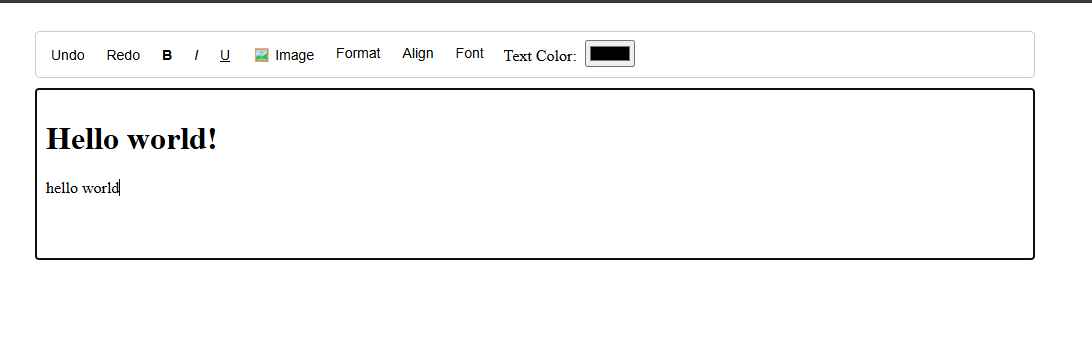
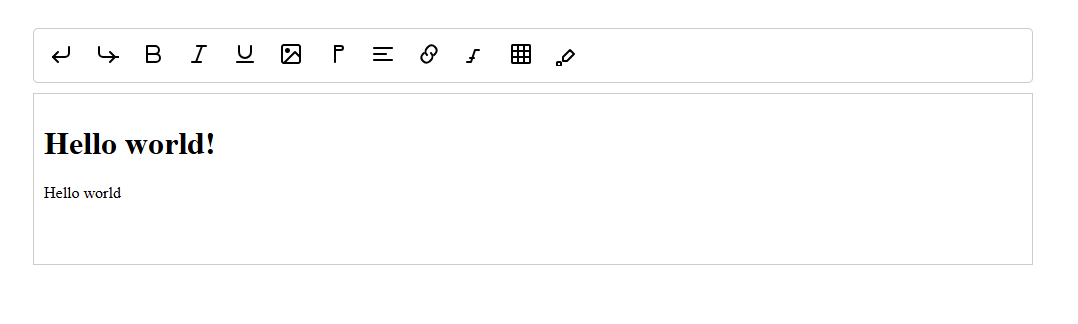
improved UI

diff --git a/src/lib/plugins/formatting.ts b/src/lib/plugins/formatting.ts
@@ -99,32 +99,89 @@ export const formattingPlugin: EditorPlugin = {
 
     // ------------------- Setup UI buttons -------------------
     editor.ui.addButton("bold", {
-      text: "<b>B</b>",
+      text: `
+      <svg xmlns="http://www.w3.org/2000/svg"
+     width="24" height="24" viewBox="0 0 24 24"
+     fill="none" stroke="currentColor" stroke-width="2"
+     stroke-linecap="round" stroke-linejoin="round"
+     role="img" aria-label="Bold">
+  <path d="M6 4h8a4 4 0 0 1 0 8H6z" />
+  <path d="M6 12h9a4 4 0 0 1 0 8H6z" />
+</svg>
+
+      `,
       tooltip: "Bold",
       onAction: () => editor.execCommand("bold"),
     });
 
     editor.ui.addButton("italic", {
-      text: "<i>I</i>",
+      text: `
+      <svg xmlns="http://www.w3.org/2000/svg"
+     width="24" height="24" viewBox="0 0 24 24"
+     fill="none" stroke="currentColor" stroke-width="2"
+     stroke-linecap="round" stroke-linejoin="round"
+     role="img" aria-label="Italic">
+  <line x1="19" y1="4" x2="10" y2="4" />
+  <line x1="14" y1="20" x2="5" y2="20" />
+  <line x1="15" y1="4" x2="9" y2="20" />
+</svg>
+
+      `,
       tooltip: "Italic",
       onAction: () => editor.execCommand("italic"),
     });
 
     editor.ui.addButton("underline", {
-      text: "<u>U</u>",
+      text: `
+      <svg xmlns="http://www.w3.org/2000/svg"
+     width="24" height="24" viewBox="0 0 24 24"
+     fill="none" stroke="currentColor" stroke-width="2"
+     stroke-linecap="round" stroke-linejoin="round"
+     role="img" aria-label="Underline">
+  <path d="M6 4v6a6 6 0 0 0 12 0V4" />
+  <line x1="4" y1="20" x2="20" y2="20" />
+</svg>
+
+      `,
       tooltip: "Underline",
       onAction: () => editor.execCommand("underline"),
     });
 
     editor.ui.addButton("image", {
-      text: "🖼 Image",
+      text: `
+      <!-- Image / Picture icon -->
+<svg xmlns="http://www.w3.org/2000/svg"
+     width="24" height="24" viewBox="0 0 24 24"
+     fill="none" stroke="currentColor" stroke-width="2"
+     stroke-linecap="round" stroke-linejoin="round"
+     role="img" aria-label="Image">
+  <!-- Frame -->
+  <rect x="3" y="3" width="18" height="18" rx="2" ry="2" />
+  <!-- Sun / circle -->
+  <circle cx="8.5" cy="8.5" r="1.5" />
+  <!-- Mountains / landscape -->
+  <path d="M21 15l-5-5L5 21" />
+</svg>
+
+      `,
       tooltip: "Insert Image",
       onAction: () => editor.execCommand("insertImage"),
     });
 
     // ------------------- Formatting dropdown -------------------
     editor.ui.addDropdown("format", {
-      text: "Format",
+      text: `
+      <svg xmlns="http://www.w3.org/2000/svg"
+     width="24" height="24" viewBox="0 0 24 24"
+     fill="none" stroke="currentColor" stroke-width="2"
+     stroke-linecap="round" stroke-linejoin="round"
+     role="img" aria-label="Format">
+  <!-- Paragraph symbol P -->
+  <path d="M10 4v16" />
+  <path d="M10 4h6a2 2 0 0 1 2 2v0a2 2 0 0 1-2 2h-6" />
+</svg>
+
+      `,
       tooltip: "Text format",
       options: ["h1", "h2", "h3", "h4", "h5", "h6", "p"].map((tag) => ({
         label: tag.toUpperCase(),
@@ -135,14 +192,76 @@ export const formattingPlugin: EditorPlugin = {
 
     // ------------------- Alignment dropdown -------------------
     const alignOptions = [
-      { label: "Left", value: "left" },
-      { label: "Center", value: "center" },
-      { label: "Right", value: "right" },
-      { label: "Justify", value: "justify" },
+      {
+        label: `
+<svg xmlns="http://www.w3.org/2000/svg"
+     width="24" height="24" viewBox="0 0 24 24"
+     fill="none" stroke="currentColor" stroke-width="2"
+     stroke-linecap="round" stroke-linejoin="round"
+     role="img" aria-label="Align Left">
+  <line x1="3" y1="6" x2="21" y2="6" />
+  <line x1="3" y1="12" x2="15" y2="12" />
+  <line x1="3" y1="18" x2="21" y2="18" />
+</svg>
+        `,
+        value: "left",
+      },
+      {
+        label: `
+<svg xmlns="http://www.w3.org/2000/svg"
+     width="24" height="24" viewBox="0 0 24 24"
+     fill="none" stroke="currentColor" stroke-width="2"
+     stroke-linecap="round" stroke-linejoin="round"
+     role="img" aria-label="Align Center">
+  <line x1="4" y1="6" x2="20" y2="6" />
+  <line x1="8" y1="12" x2="16" y2="12" />
+  <line x1="4" y1="18" x2="20" y2="18" />
+</svg>
+        `,
+        value: "center",
+      },
+      {
+        label: `
+<svg xmlns="http://www.w3.org/2000/svg"
+     width="24" height="24" viewBox="0 0 24 24"
+     fill="none" stroke="currentColor" stroke-width="2"
+     stroke-linecap="round" stroke-linejoin="round"
+     role="img" aria-label="Align Right">
+  <line x1="3" y1="6" x2="21" y2="6" />
+  <line x1="9" y1="12" x2="21" y2="12" />
+  <line x1="3" y1="18" x2="21" y2="18" />
+</svg>
+        `,
+        value: "right",
+      },
+      {
+        label: `
+        <svg xmlns="http://www.w3.org/2000/svg"
+     width="24" height="24" viewBox="0 0 24 24"
+     fill="none" stroke="currentColor" stroke-width="2"
+     stroke-linecap="round" stroke-linejoin="round"
+     role="img" aria-label="Align Justify">
+  <line x1="3" y1="6" x2="21" y2="6" />
+  <line x1="3" y1="12" x2="21" y2="12" />
+  <line x1="3" y1="18" x2="21" y2="18" />
+</svg>
+        `,
+        value: "justify",
+      },
     ];
 
     editor.ui.addDropdown("align", {
-      text: "Align",
+      text: `
+<svg xmlns="http://www.w3.org/2000/svg"
+     width="24" height="24" viewBox="0 0 24 24"
+     fill="none" stroke="currentColor" stroke-width="2"
+     stroke-linecap="round" stroke-linejoin="round"
+     role="img" aria-label="Align Left">
+  <line x1="3" y1="6" x2="21" y2="6" />
+  <line x1="3" y1="12" x2="15" y2="12" />
+  <line x1="3" y1="18" x2="21" y2="18" />
+</svg>
+      `,
       tooltip: "Text alignment",
       options: alignOptions.map((opt) => ({
         label: opt.label,

diff --git a/src/lib/editor/editor.ts b/src/lib/editor/editor.ts
@@ -38,12 +38,10 @@ export class Editor {
 
   /**
    * Constructor
-   * @param toolbarId - The id of the toolbar
-   * @param editorId - The id of the editor
+   * @param toolbar - The element of the toolbar
+   * @param editor - The element of the editor
    */
-  constructor(toolbarId: string, editorId: string) {
-    const toolbar = document.querySelector(toolbarId) as HTMLElement;
-    const editor = document.querySelector(editorId) as HTMLElement;
+  constructor(toolbar: HTMLElement, editor: HTMLElement) {
     if (!toolbar || !editor) {
       throw new Error("Toolbar or Editor not found");
     }
@@ -51,6 +49,8 @@ export class Editor {
     this.editor = editor;
 
     // Set attributes
+    this.toolbar.style.position = "sticky";
+    this.toolbar.style.top = "0";
     this.toolbar.setAttribute("role", "toolbar");
     this.editor.setAttribute("role", "textbox");
     this.editor.setAttribute("contenteditable", "true");
@@ -64,11 +64,9 @@ export class Editor {
     this.inputListener = debouncedSave;
 
     this.editor.addEventListener("input", debouncedSave);
-
     this.editor.addEventListener("mouseup", () => {
       this.emitter.emit("selectionchange", { range: this.getSelectionRange() });
     });
-
     this.editor.addEventListener("keyup", () => {
       this.emitter.emit("selectionchange", { range: this.getSelectionRange() });
     });

diff --git a/src/lib/plugins/colorPicker.ts b/src/lib/plugins/colorPicker.ts
@@ -7,14 +7,36 @@ import { Editor } from "../editor/editor";
 export const colorPickerPlugin: EditorPlugin = {
   name: "colorPicker",
   init(editor: Editor) {
+    editor.ui.addButton("colorPicker", {
+      text: `<svg xmlns="http://www.w3.org/2000/svg"
+     width="24" height="24" viewBox="0 0 24 24"
+     fill="none" stroke="currentColor" stroke-width="2"
+     stroke-linecap="round" stroke-linejoin="round"
+     role="img" aria-label="Color">
+  <!-- Pencil tip / color drop -->
+  <path d="M12 19l7-7-4-4-7 7v4h4z" />
+  <!-- Optional color square / palette -->
+  <rect x="2" y="20" width="4" height="4" rx="1" ry="1" />
+</svg>
+`,
+      tooltip: "Text Color",
+      onAction: () => {
+        const input = editor.toolbar.querySelector("#soditor-color-picker-label") as HTMLInputElement;
+        if (input) {
+          input.click();
+        }
+      },
+    });
+
     const label = document.createElement("label");
+    label.id = "soditor-color-picker-label";
     label.style.marginLeft = "8px";
-    label.innerText = "Text Color: ";
 
     const input = document.createElement("input");
     input.type = "color";
     input.value = "#000000"; // default black
     input.style.marginLeft = "4px";
+    input.style.visibility = "hidden";
 
     input.oninput = () => {
       const color = input.value;

diff --git a/src/lib/plugins/undoRedo.ts b/src/lib/plugins/undoRedo.ts
@@ -5,14 +5,41 @@ export const undoRedoPlugin: EditorPlugin = {
   name: "undoRedo",
   init(editor: Editor) {
     editor.ui.addButton("undo", {
-      text: "Undo",
+      text: `
+      <!-- Undo / corner-left (outline) -->
+<svg xmlns="http://www.w3.org/2000/svg"
+     width="24" height="24" viewBox="0 0 24 24"
+     fill="none" stroke="currentColor" stroke-width="2"
+     stroke-linecap="round" stroke-linejoin="round"
+     role="img" aria-label="Undo">
+  <!-- arrow head -->
+  <path d="M9 10 L4 15 L9 20" />
+  <!-- curved path (undo tail) -->
+  <path d="M20 5v6a4 4 0 0 1-4 4H4" />
+</svg>
+
+      `,
       tooltip: "Undo",
       onAction: () => {
         editor.undo();
       },
     });
+
     editor.ui.addButton("redo", {
-      text: "Redo",
+      text: `
+      <!-- Redo / corner-right (outline) -->
+<svg xmlns="http://www.w3.org/2000/svg"
+     width="24" height="24" viewBox="0 0 24 24"
+     fill="none" stroke="currentColor" stroke-width="2"
+     stroke-linecap="round" stroke-linejoin="round"
+     role="img" aria-label="Redo">
+  <!-- arrow head -->
+  <path d="M15 10 L20 15 L15 20" />
+  <!-- curved path (redo tail) -->
+  <path d="M4 5v6a4 4 0 0 0 4 4h16" />
+</svg>
+
+      `,
       tooltip: "Redo",
       onAction: () => {
         editor.redo();

diff --git a/src/lib/plugins/table.ts b/src/lib/plugins/table.ts
@@ -6,7 +6,23 @@ export const tablePlugin: EditorPlugin = {
   init(editor: Editor) {
     // --- Create Table Button ---
     editor.ui.addButton("table", {
-      text: "📊 Table",
+      text: `
+      <svg xmlns="http://www.w3.org/2000/svg"
+     width="24" height="24" viewBox="0 0 24 24"
+     fill="none" stroke="currentColor" stroke-width="2"
+     stroke-linecap="round" stroke-linejoin="round"
+     role="img" aria-label="Table">
+  <!-- Outer table frame -->
+  <rect x="3" y="3" width="18" height="18" rx="1" ry="1" />
+  <!-- Horizontal rows -->
+  <line x1="3" y1="9" x2="21" y2="9" />
+  <line x1="3" y1="15" x2="21" y2="15" />
+  <!-- Vertical columns -->
+  <line x1="9" y1="3" x2="9" y2="21" />
+  <line x1="15" y1="3" x2="15" y2="21" />
+</svg>
+
+      `,
       tooltip: "Insert Table",
       onAction: async () => {
         const rowsValue = await editor.ui.promptAsync(

diff --git a/src/lib/plugins/link.ts b/src/lib/plugins/link.ts
@@ -5,7 +5,16 @@ export const linkPlugin: EditorPlugin = {
   name: "link",
   init(editor: Editor) {
     editor.ui.addButton("myButton", {
-      text: "Insert Link",
+      text: `
+      <svg xmlns="http://www.w3.org/2000/svg"
+     width="24" height="24" viewBox="0 0 24 24"
+     fill="none" stroke="currentColor" stroke-width="2"
+     stroke-linecap="round" stroke-linejoin="round"
+     role="img" aria-label="Link">
+  <path d="M10 13a5 5 0 0 1 0-7l1.5-1.5a5 5 0 0 1 7 7L17 13" />
+  <path d="M14 11a5 5 0 0 1 0 7l-1.5 1.5a5 5 0 0 1-7-7L7 11" />
+</svg>
+`,
       onAction: () => {
         editor.saveSelection();
         editor.ui.showModal("insertLinkModal");

diff --git a/src/lib/editor/ui.ts b/src/lib/editor/ui.ts
@@ -377,7 +377,7 @@ export class UI {
     // Add options to the dropdown menu
     for (const opt of props.options || []) {
       const item = document.createElement("a");
-      item.textContent = opt.label;
+      item.innerHTML = opt.label;
       item.onclick = () => {
         if (opt.onSelect) {
           this.editor.restoreSelection();
@@ -389,7 +389,8 @@ export class UI {
     }
 
     // Toggle menu
-    button.onclick = () => {
+    button.onclick = (e) => {
+      e.stopPropagation();
       this.editor.saveSelection();
       menu.classList.toggle("soditor-show");
     };

diff --git a/src/lib/plugins/font.ts b/src/lib/plugins/font.ts
@@ -18,7 +18,18 @@ export const fontPlugin: EditorPlugin = {
     ];
 
     editor.ui.addDropdown("fonts", {
-      text: "Font",
+      text: `
+      <svg xmlns="http://www.w3.org/2000/svg"
+     width="24" height="24" viewBox="0 0 24 24"
+     fill="none" stroke="currentColor" stroke-width="2"
+     stroke-linecap="round" stroke-linejoin="round"
+     role="img" aria-label="Font">
+  <!-- Letter A -->
+  <path d="M4 20h4l4-12h4" />
+  <line x1="7" y1="16" x2="11" y2="16" />
+</svg>
+
+      `,
       tooltip: "Font",
       options: fonts.map((font) => {
         return {

diff --git a/src/main.ts b/src/main.ts
@@ -9,7 +9,10 @@ import { contextMenuPlugin } from "./lib/plugins/contextMenu";
 import { linkPlugin } from "./lib/plugins/link";
 import { tablePlugin } from "./lib/plugins/table";
 
-const editor = new Editor("#soditor-toolbar", "#soditor-editor");
+const toolbar = document.getElementById("soditor-toolbar");
+const editorContainer = document.getElementById("soditor-editor");
+
+const editor = new Editor(toolbar, editorContainer);
 editor.use(undoRedoPlugin);
 editor.use(formattingPlugin);
 editor.use(linkPlugin);
